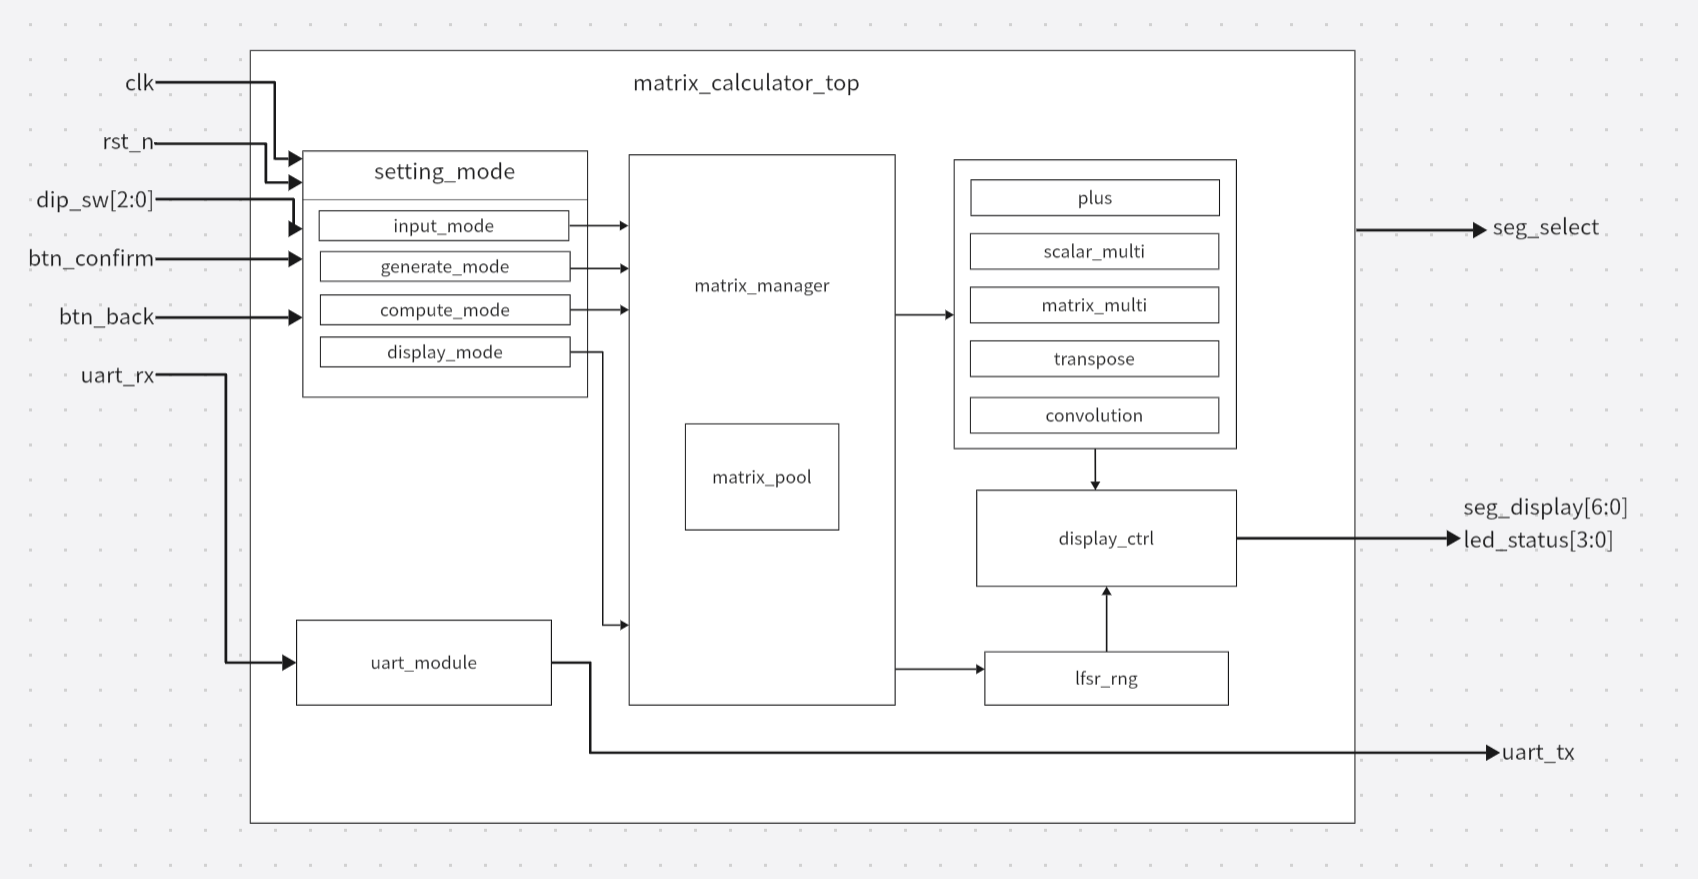
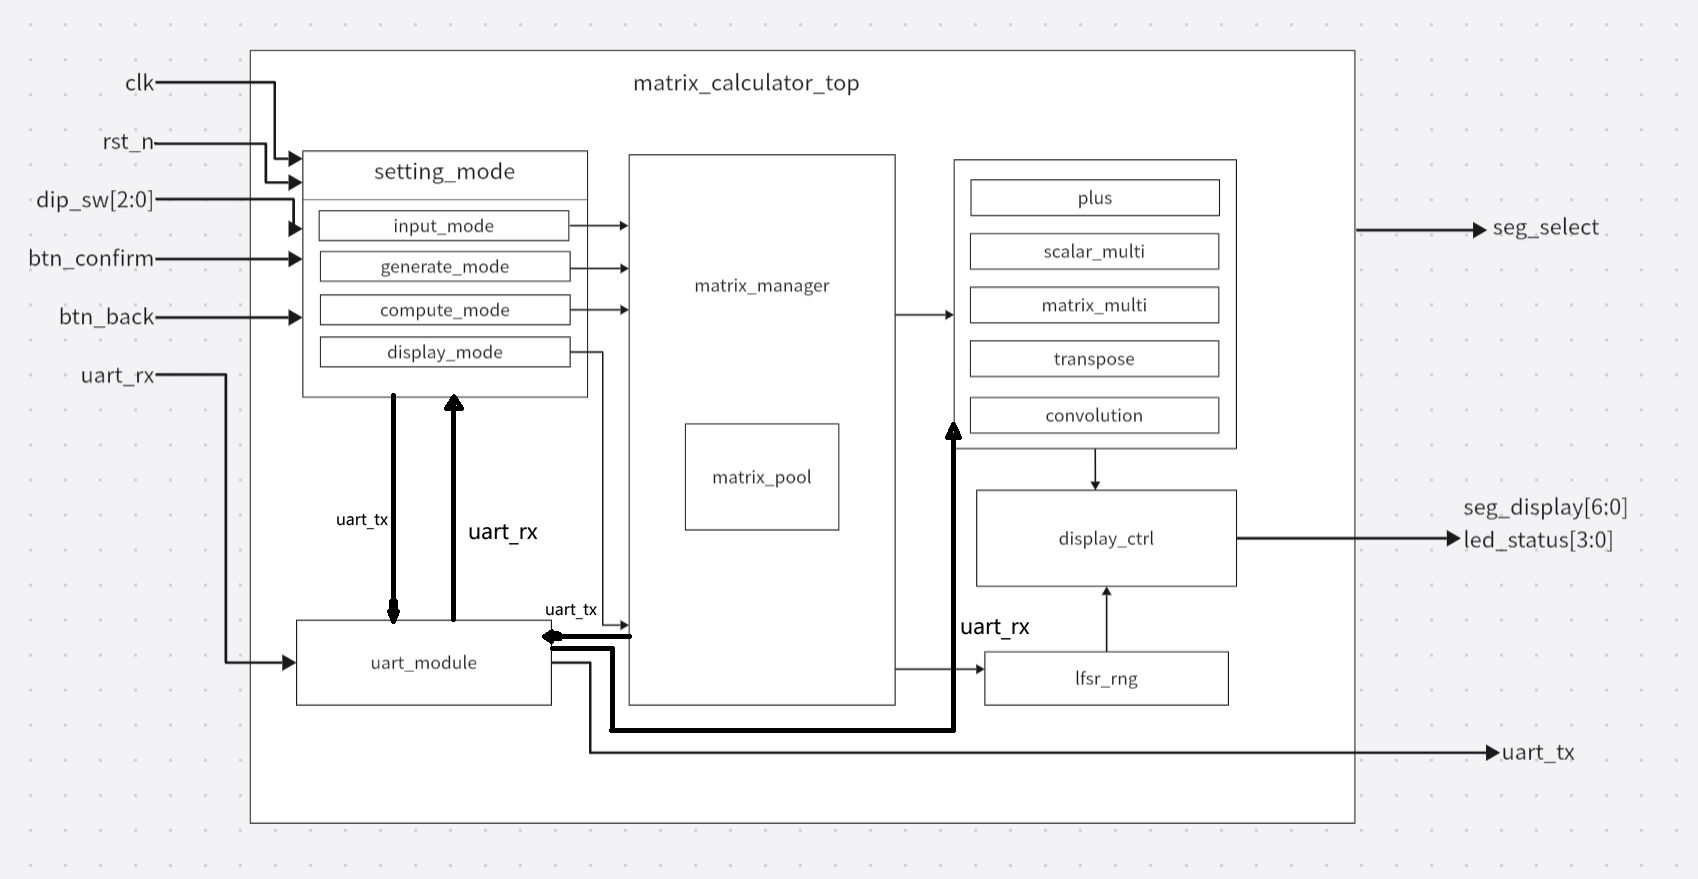
update

diff --git a/Report/The Architecture Report.md b/Report/The Architecture Report.md
@@ -1,9 +1,11 @@
-# Digital Logic 2025 Fall Project Architecture Report 
+# Digital Logic 2025 Fall Project Architecture Report(Final Version)
 
 **Authors:**
-- Yanqiao Chen(12412115)
-- Yan Jiang(12410337)
-- Dongsheng Hou(12410421)
+- 陈彦桥(Yanqiao Chen, 12412115), 负责顶层模块、输入、随机数生成、矩阵覆盖逻辑、随机选择、卷积模块的开发
+- 蒋言(Yan Jiang, 12410337)：负责计算模块以及下属计算模块的开发
+- 侯栋升(Dongsheng Hou, 12410421)：负责BRAM和Matrix Manager的开发
+
+**贡献比1：1：1**
 
 ## 开发计划日程安排和实施情况，版本修改记录
 
@@ -13,8 +15,8 @@
 
 - **初始阶段**：项目立项，确定基本架构，使用DRAM存储。
 - **中期阶段**：实现UART通信、按键消抖、基本模式切换。
-- **后期阶段**：实现矩阵输入、存储、计算功能，重构为BRAM存储。
-- **最终阶段**：完善所有计算模式、设置模式、错误处理、GUI框架。
+- **后期阶段**：实现矩阵输入、存储、计算功能，发现综合问题和时序违例，重构为BRAM存储。
+- **最终阶段**：完善所有计算模式、设置模式、错误处理，初步开发了GUI但是尚未完善，因此不提交检查。
 
 ### 实施情况
 
@@ -35,13 +37,13 @@ GitHub仓库链接：https://github.com/SUSTech-Digital-Logic-Project-Team/Digit
 - 15bd659 update
 - 6817a1a update
 - 679961f Okay this is the end
-- ... (更多提交见仓库)
+- ... (更多提交见仓库)，共108次commit，pull request共29个
 
 ## 项目架构设计说明
 
 基于提交的架构设计文档，改进后的最终实现方案如下：
 
-（原有架构内容保持不变）
+**原有架构内容保持不变**
 
 ## 输出对齐和参数配置设计思路
 
@@ -49,31 +51,17 @@ GitHub仓库链接：https://github.com/SUSTech-Digital-Logic-Project-Team/Digit
 
 在显示和UART输出中，实现输出对齐通过在数字间添加空格，并在行列分隔时发送换行符。计数器维护当前行数据，当一行显示完毕时发送换行符（ASCII码10）。
 
+其实现主要通过若干子状态寄存器实现格式化输出，其核心在于通过读取Matrices Manager中的矩阵维度信息，通过维护计数器，检查边界来实现格式化输出。没有与更多其它模块有数据交换。
+
 ### 参数配置
 
 设置模式允许用户通过UART自定义参数，包括最大矩阵维度、最大数值、同一维度最大矩阵数量、倒计时设置。FPGA复位后参数初始化为默认值，用户可在运行时修改。与周边模块的关系：设置模式与顶层模块交互，更新config寄存器；顶层模块将这些参数传递给各子模块，如计算模式、生成模式等，用于限制输入范围和操作。
 
 ## 应用开发
 
-项目实现了GUI应用（matrix_calculator_gui.py），用于PC端交互。应用开发部分由视频代替，视频需展示应用操作过程，介绍使用的技术栈（Python + Tkinter）和开发方式（脚本开发）。
+项目实现了GUI应用（matrix_calculator_gui.py，位于github仓库，此部分代码由于未完成，故未提交）。
 
-## 开源和AI使用以及思考总结
-
-### 开源声明
-
-本项目使用MIT协议开源，所有代码和文档可在GitHub仓库获取。
-
-### AI使用声明
-
-- 大量采用AI生成重复代码-人工调优debug模式，尤其在状态机设置、多路选择和模块连接中。
-- AI提供BRAM优化建议，有效避免LUT综合爆炸。
-- AI局限性：在复杂Verilog中，AI常在无关处过度检查，输出需人工review和debug。
-
-### 思考总结
-
-项目体现了数字逻辑设计从概念到实现的完整流程。使用BRAM优化显著提升性能，AI辅助加速开发但需人工把控质量。未来可进一步优化流水线和GUI连接。
-
-## The INPUT and OUTPUT
+## 输入和输出接口
 
 The input port and output port is listed as follows: 
 
@@ -94,10 +82,10 @@ The input port and output port is listed as follows:
 - LED: 4 bits width, LD3 as MSB, LD0 as LSB, used for indicating working, error type and so on.
 - 7-Seg LED selection: 2 bits width, used for selecting 7-Seg LED
 
-![描述文本](1.png)  
+![描述文本](/Graph/1.png)  
 
 
-## Architecture
+## 整体架构概览
 
 The Architecture of this project is purposed as follow: 
 
@@ -109,6 +97,7 @@ The Architecture of this project is purposed as follow:
 - UART Module
 - Tool Kit
 
+**架构框图示意**
 ```
 ┌─────────────┐
 │    UART     │◄──────► EGO1 UART PORT
@@ -157,12 +146,12 @@ The Architecture of this project is purposed as follow:
      random number|      |              |
     └─────────────┘      └──────────────┘
 ```
-
-![描述文本](2.png)  
+**架构和数据流示意图**
+![描述文本](/Graph/2.png)  
 
 ### The Top Module
 
-The top module includes
+顶层模块包含：
 
 | Name | Input | Output | Usage|
 |:--------------:|:---:|:---:|:---:|
@@ -206,7 +195,7 @@ The top module includes
 
 ## The FSM
 
-Some main states of this project:
+项目中主要的状态机包含：
 
 - IDLE, MODE_INPUT, MODE_COMPUTE, MODE_GENERATE, MODE_SETTING, MODE_DISPLAY
 - Input Mode: IDLE, PARSE_M, PARSE_N, CHECK_DIM, WAIT_ALLOC, PARSE_DATA, FILL_ZEROS, COMMIT, DISPLAY_MATRIX, DONE, ERROR
@@ -214,6 +203,136 @@ Some main states of this project:
 - Generate Mode: IDLE, WAIT_M, WAIT_N, ALLOC, GEN_DATA, COMMIT, DONE
 - Compute Mode: IDLE, SELECT_OP, SELECT_MATRIX, EXECUTE, SEND_RESULT, DONE
 
+### 状态机示意图
+
 **Top**
-![描述文本](top.png) 
-![描述文本](3.png) 
+![描述文本](/Graph/top.png) 
+
+**Modules**
+![描述文本](/Graph/3.png) 
+
+## 开源和AI使用
+
+### 开源声明
+
+本项目使用MIT协议开源，所有代码和文档可在GitHub仓库获取。
+
+### AI使用声明和开源代码使用声明
+
+- AI提供BRAM优化建议，有效避免LUT综合爆炸。
+- AI局限性：在复杂Verilog中，AI常在无关处过度检查，输出需人工review和debug。
+- 其中，input mode部分代码由上一版本（无BRAM版本）使用AI完全重构而来，generate mode由input mode复制和手动修改而来。内存管理（BRAM Pool和Matrices Manager由AI主要编写）主要参考AI编写，例如分配逻辑和覆盖逻辑。计算模块由Yan Jiang整体编写，然后通过AI进行细节调优，尤其是对一些编写错误、状态重复和寄存器冗余进行了调整，并且由完全整合在Compute Mode里面变成了模块化为单独模块。UART模块为课程提供的模块，我们加入了UART Module方便其他模块调用。
+- 随机数生成器（线性反馈位移寄存器）由大模型提供，我们上网查找了资料，对其有了一定的了解。
+- Button Debounce主要由AI提供（此时实验课尚未讲授，因此我们查找资料并用AI生成了一份），并且在后续的实验课上进行了完善。
+- Setting Mode设置思路主要由小组成员提供，并且交由AI搭建状态机框架，然后根据需要进行调整。
+- 限制文件为手动编写，无AI生成内容。
+- 本项目主要使用的开源代码即课程提供的UART模块，没有使用其它仓库代码。
+- 本项目许多比较困难的地方由Claude Opus 4.5编写，其它部分包含了Gemini Pro 2.5, Gemini Pro 3, GPT-5.1-Codex-Max, GPT-4o, Grok Code Fast, Claude Sonnet 4.5, Claude Haiku 4.5。
+
+## 思考与总结
+
+本次项目，我们大量采用AI生成重复代码-人工调优debug模式，尤其在状态机设置、多路选择和模块连接中。这些模块编写起来相当枯燥单调，因此我们普遍使用了Prompt工程来生成这些代码。另外，尤其是在Compute Mode中，其中包含了大量格式化输出所需要的代码，我们大部分都使用AI来生成这些重复且冗余的代码。
+
+在AI时代，我们往往会因为Vibe Coding所带来的方便而陷入其中。但是实际上，过度的Vibe Coding往往会导致一个项目变成完全的屎山的速度大大加快。AI往往会添加大量不需要的冗余功能，并且可能埋下若干在前期设计中完全意想不到的问题。尤其是在当前，AI尚不具备设计高度复杂系统的能力，因此需要工程师对于AI生成的代码更加谨慎和小心，必须要完整地理解AI所写的代码的功能、实现方法和其与其它部分的交互。一个可以借鉴的经验是，不要给AI提供太长的上下文，最好是让AI修改局部功能，或者生成重复的代码，而不要将整个工程交给AI来处理，这样往往会导致不必要的麻烦。
+
+### AI辅助开发导致的问题：上下文理解混乱
+
+例如，我们在开发过程中遇到了这样的问题：AI在前期设计的时候，使用了5位位宽的二进制数来表示状态，但是到了后期，由于模块功能更加复杂，状态迅速增加到了100+个，此时，AI仍然使用5位的位宽来标记状态（不知为何，可能受到了上下文干扰），因此导致了我们在开发过程中需要仔细地去查找到底是哪个地方出了问题。最终我们将这个问题检查出来并进行了修复。
+
+另一个例子是，我们通过AI来去除一些不需要的代码（例如，我们在前期编写了display模式，但是后续放弃了开发，需要删除），但是AI在匹配了所有应该删除项之后，继续删除了很多必要的功能，这导致我们不得不回滚代码以保证代码可以运行。此类情况在无需付费的免费模型尤其常见（例如GPT-4o和Grok Code Fast）
+
+这表明，AI辅助编程仍然无法很好地实现复杂功能，若要实现，则需要非常详细的Prompt。有时候，清晰地描述一个需求比自己直接编写还要困难，因为需要更加谨慎的检查AI的修改是否会影响到其它部分的正常工作。
+
+### 一些比较好的交互例子
+
+**如下是在进行矩阵覆盖开发的对话。**
+
+-------
+
+**Human:** 可以保存一个指针，指向每一个维度优先替换的那个矩阵，matrix_manager的分配逻辑增加：若超出顶层模块中的“同一维度矩阵限制”，那么直接返回指针指向的那个矩阵，然后将指针指向下一个同一维度的矩阵（由于矩阵在内存上先后被分配，因此只需要向后查找第一个同维度的矩阵），如果指针指向的同一维度矩阵数超出限制，则回到第一个。
+
+**Agent:**
+
+(此处省略若干修改，AI正确地修改了逻辑，并且使用了全局时间戳记录矩阵的录入顺序)
+
+- Added per-dimension cap support in matrix_manager_optimized.v: tracks per-size counts and replacement pointers, returns the pointer slot for overwrite when count hits dim_limit_per_size, advances pointer to the next same-dimension matrix, and keeps counts/pointers in sync on commit. New helper find_next_same_dim wraps within slots.
+- Introduced per-dimension tracking tables (1024 entries for 5-bit m/n) and reset them; kept existing address reuse so overwrites use the original start_addr.
+- Wired config_matrices_per_size into the manager via new port dim_limit_per_size in matrix_calculator_top_optimized.v.
+Next steps: build/sim to confirm synthesis passes and that allocation+commit flows from input/generate/compute still behave as expected under dimension caps.
+
+--------
+
+如上，我们发现，如果需要Agent正确地修改文件，必须要提供明确的上下文（上文中，我们明确提供了Matrix Manager文件，并且要求其修改分配逻辑），并且指出你的实现思路，最好是分步叙述，并且要给出明确的对象描述，不能够模糊，否则AI可能根据其想法通过其它的方式进行实现，这大大增加了理解成本和debug的成本。
+
+**如下是在进行错误状态倒计时开发的对话。**
+
+-------
+
+**Human:** 显然，如果我们要显示一个两位数倒计时，我们就不能只选中一个数码管，我们应该在两个数码管之间高频切换（例如使用一个两位独热码从而显示例如15之类的倒计时）
+
+**Agent:**
+
+(此处省略若干修改，AI正确地修改了逻辑，并且使用了全局时间戳记录矩阵的录入顺序)
+
+明白了，您需要将 count_down_select 从单一的使能信号改为一个2位的独热码，用于在两个数码管之间高频切换，以显示两位数的倒计时（如15秒）。
+
+让我先查看 display_ctrl 模块了解当前的显示控制逻辑：
+
+display_ctrl.v
+
+现在我理解了整体结构。当前 countdown_val 是4位的，只能显示0-9。需要：
+
+将 countdown_val 扩展为支持两位数（5-15）
+在 display_ctrl 中添加两个数码管的扫描逻辑用于倒计时显示
+将 count_down_select 改为2位独热码输出
+已编辑
+matrix_calculator_top_optimized.v+25-24
+现在修改 display_ctrl 模块，添加两位数倒计时显示的扫描逻辑：
+
+现在需要调整扫描计数器的声明顺序，因为 scan_cnt 在倒计时逻辑中被引用，但是它的声明在后面。让我检查一下文件的当前状态：display_ctrl.v
+
+需要将 scan_cnt 的声明移到倒计时逻辑之前：
+
+现在删除重复的 scan_cnt 声明和 always 块：
+
+display_ctrl.v
+
+现在验证所有文件是否有错误：
+
+display_ctrl.vmatrix_calculator_top_optimized.v
+
+修改完成！让我总结一下本次更改：
+
+修改总结
+1. matrix_calculator_top_optimized.v
+count_down_select 从 1 位改为 2 位输出（独热码）
+删除了固定的 assign count_down_select = 1'b1，改由 display_ctrl 模块驱动
+countdown_val 从 4 位扩展为 5 位，支持 5-15 的两位数显示
+countdown_reg 同样扩展为 5 位
+在 display_ctrl 实例化中添加了 .count_down_select(count_down_select) 端口连接
+2. display_ctrl.v
+countdown_val 输入从 4 位扩展为 5 位
+新增 count_down_select 2 位独热码输出端口
+添加了 countdown_tens（十位）和 countdown_ones（个位）的计算逻辑
+添加了 digit_to_seg 函数用于数字到七段显示的编码
+倒计时显示使用与主显示相同的 scan_cnt[16] 进行高频切换：
+scan_cnt[16] == 0：选中左侧数码管（count_down_select = 2'b10），显示十位
+scan_cnt[16] == 1：选中右侧数码管（count_down_select = 2'b01），显示个位
+十位为 0 时不显示（避免显示 "05" 而是显示 " 5"）
+无错误时 count_down_select = 2'b00（关闭倒计时数码管）
+--------
+
+如上，我们可以看到，我们的提示词并不复杂，但是Claude Opus 4.5很好的修改了代码，并且给出了详细的代码注释。这表明，Claude Opus 4.5的代码能力非常强。我们在实际体验中也感受得到了这一模型的效率和准确率。这表明，在编写过程中，选择正确的代码模型也是很重要的。许多同学可能无法使用Claude系列模型，在项目开发中可能就会因为许多模型（尤其是GPT的代码模型）的胡乱输出导致整个项目不得不回滚。
+
+### 总结
+
+总而言之，我们在本次的项目开发中学到了如何搭建一个完整的小项目，并且从AI的代码中学习了很多Verilog相关的知识（例如，强制综合器使用BRAM，强制综合器不优化掉某一个变量），同时也学会了很多Debug方面的知识，例如编写测试文件，设置断电测试并上板通过串口进行调试，等等。最终我们也顺利完成了本次Project的开发，实现了绝大部分的功能，并且实现了参数设置、输出对齐和卷积等bonus功能。
+
+## 对课程的建议
+
+我认为，Project后续的设计应该聚焦于FPGA上计算本身的优化，而不是主要在输入输出、存储等细节上。首先，Memory在课程中比较后面才开始讲到，并且比较浅显，对于Project早期开发造成了一定困扰。其次，AI很容易能够编写出类似的功能，因此此功能很可能无法反映出学生对于数字逻辑课程本身的学习程度。
+
+一个建议是，下次的Project中，应该将“功能性”的内容转向“性能”方向，例如，通过PE阵列加速运算、编写快速傅里叶卷积、快速矩阵乘法等算法，以及通过Vivado本身的各类优化器对FPGA生成的电路进行优化，甚至在FPGA上实现神经网络等等，这或许是在深度学习时代的一种探索方向。
+
+
+
